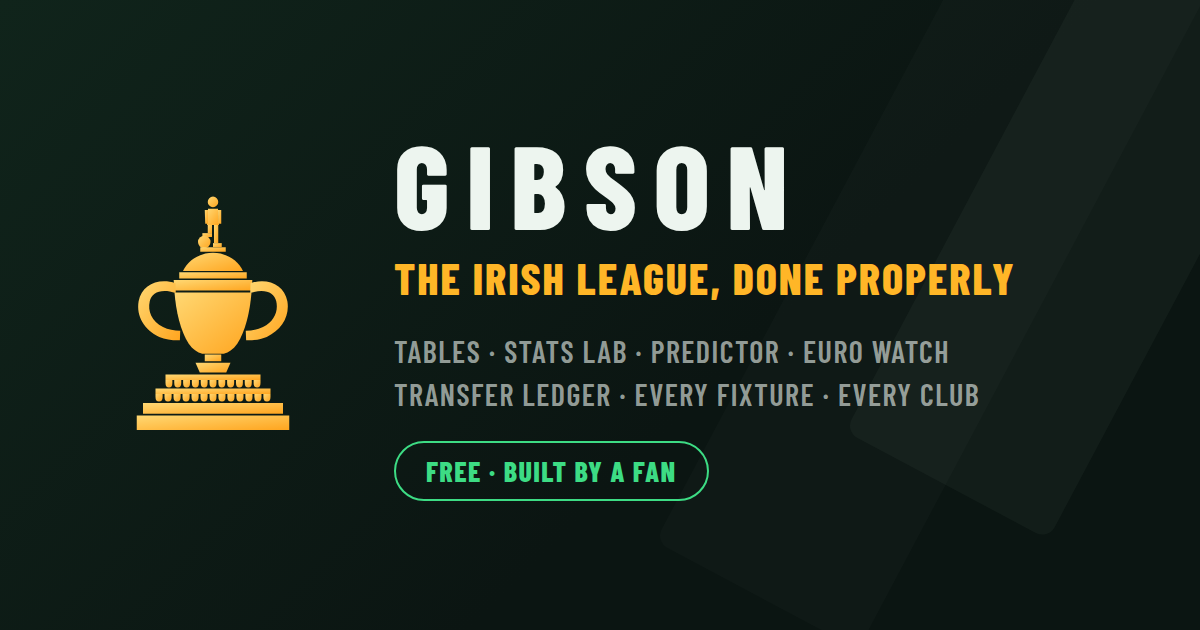
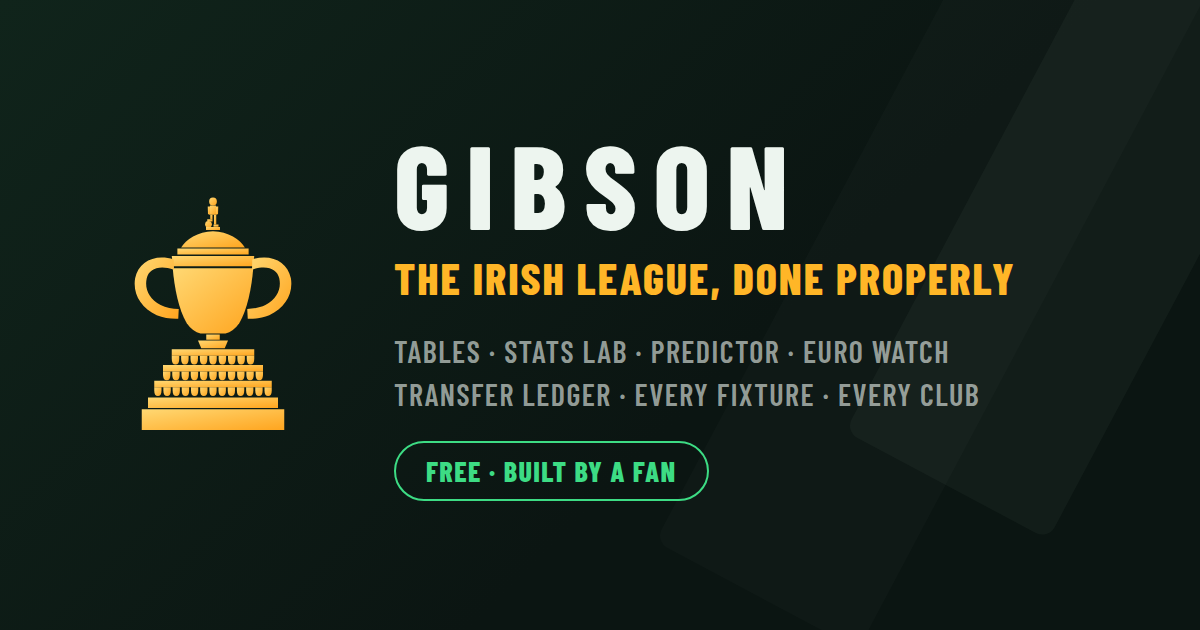
Reproportion the mark against the reference photos
The finial was 24% of the mark's height. On the real trophy it is 11-15% — the
difference between a small silver figure standing on a cup and a mascot riding
one. The drum was undersized to match, at 12% where the photos give it ~20%,
which took the bottom-heavy stance out of the whole thing.

Measured all six sections off the three photographs and refit:

  finial 24% -> 12.5%    lid 11% -> 10.2%     bowl 32% -> 33.9%
  stem    8% ->  6.0%    drum 12% -> 20.5%    base 12% -> 14.2%

The drum now carries three courses of plaques rather than two, which is what the
photos show and what the extra height wanted. The handle curve was not redrawn —
the shape was right, only its span was tied to the old bowl — so it is refitted
onto the new one and re-mirrored.

CUP_SHARES records what was measured, as ranges rather than fixed figures: the
photos are hand-measured off three different angles, and pretending to more
precision than that would be its own kind of wrong.

Checks:
- every section keeps its measured share of the height. This is the one that
  would have saved a round — the oversized finial was a number the whole time,
  not a matter of taste, and nobody was checking it
- the bowl stays the tallest section, which is what makes it read as a cup
  rather than a statue on a plinth
- the plaque courses widen all the way down, not just for the first two
- the handle-attachment check now derives the bowl's edges from the bowl instead
[…]

Changed region(s): [[0.0925, 0.3016, 0.2467, 0.6937]]

diff --git a/scripts/promo/kit.js b/scripts/promo/kit.js
@@ -87,7 +87,7 @@ function shield(club, cx, cy, h) {
 // a plain <script>, so it cannot import src/lib/cup.js the way LogoMark and the OG card
 // do. It carries a copy instead, and verify.js proves the copy still matches the source.
 // To update: change src/lib/cup.js, then run `node scripts/sync-cup.mjs`.
-const CUP_D=["M95.8 9.5 A4.2 4.2 0 1 0 104.2 9.5 A4.2 4.2 0 1 0 95.8 9.5 Z","M96 15 L104 15 L104.8 28 L95.2 28 Z","M93.4 16 L96 16 L96 27 L93.8 27 Z","M104 16 L106.6 16 L106.6 27 L104.2 27 Z","M95.8 28 L99.2 28 L99.2 34.5 L95.8 34.5 Z","M91.5 34.5 L99.2 34.5 L99.2 37.6 L91.5 37.6 Z","M88 41.6 A5 5 0 1 0 98 41.6 A5 5 0 1 0 88 41.6 Z","M100.8 28 L104.2 28 L104.2 42.5 L100.8 42.5 Z","M100 42.5 L107 42.5 L107 45.6 L100 45.6 Z","M89.8 45.8 L110.2 45.8 L110.2 49.4 L89.8 49.4 Z","M100 50.2 C89 50.2 79.5 56.8 76 64.8 L124 64.8 C120.5 56.8 111 50.2 100 50.2 Z","M73 65.8 L127 65.8 L127 70.8 L73 70.8 Z","M68.5 72 L131.5 72 L130.6 80.4 L69.4 80.4 Z","M69.2 82 L130.8 82 C129.6 97 126 113 119.4 123 C116.4 127.4 112.6 130 108.6 131 L91.4 131 C87.4 130 83.6 127.4 80.6 123 C74 113 70.4 97 69.2 82 Z","M70 74.5 C56 70 43 76 40.5 89 C38.5 101 45 112 57 117.5 C62 119.6 68 120.4 73.5 120.2 L73.8 112.6 C69 112.6 64 111.6 60 109.6 C51 105 47.6 97 49.4 89 C51 82 58.5 78.4 70.2 82.4 Z","M130 74.5 C144 70 157 76 159.5 89 C161.5 101 155 112 143 117.5 C138 119.6 132 120.4 126.5 120.2 L126.2 112.6 C131 112.6 136 111.6 140 109.6 C149 105 152.4 97 150.6 89 C149 82 141.5 78.4 129.8 82.4 Z","M93.4 131.6 L106.6 131.6 L106.6 137 L93.4 137 Z","M86 138.2 L114 138.2 L110.6 146 L89.4 146 Z","M62 147.6 L138 147.6 L138 152.0 L62 152.0 Z","M62.0 152.0 L67.5 152.0 L67.5 154.3 Q67.5 158.0 64.8 158.0 Q62.0 158.0 62.0 154.3 Z","M69.0 152.0 L74.6 152.0 L74.6 154.3 Q74.6 158.0 71.8 158.0 Q69.0 158.0 69.0 154.3 Z","M76.1 152.0 L81.6 152.0 L81.6 154.3 Q81.6 158.0 78.9 158.0 Q76.1 158.0 76.1 154.3 Z","M83.1 152.0 L88.7 152.0 L88.7 154.3 Q88.7 158.0 85.9 158.0 Q83.1 158.0 83.1 154.3 Z","M90.2 152.0 L95.7 152.0 L95.7 154.3 Q95.7 158.0 93.0 158.0 Q90.2 158.0 90.2 154.3 Z","M97.2 152.0 L102.8 152.0 L102.8 154.3 Q102.8 158.0 100.0 158.0 Q97.2 158.0 97.2 154.3 Z","M104.3 152.0 L109.8 152.0 L109.8 154.3 Q109.8 158.0 107.0 158.0 Q104.3 158.0 104.3 154.3 Z","M111.3 152.0 L116.9 152.0 L116.9 154.3 Q116.9 158.0 114.1 158.0 Q111.3 158.0 111.3 154.3 Z","M118.4 152.0 L123.9 152.0 L123.9 154.3 Q123.9 158.0 121.1 158.0 Q118.4 158.0 118.4 154.3 Z","M125.4 152.0 L131.0 152.0 L131.0 154.3 Q131.0 158.0 128.2 158.0 Q125.4 158.0 125.4 154.3 Z","M132.5 152.0 L138.0 152.0 L138.0 154.3 Q138.0 158.0 135.2 158.0 Q132.5 158.0 132.5 154.3 Z","M54 158.8 L146 158.8 L146 163.2 L54 163.2 Z","M54.0 163.2 L59.7 163.2 L59.7 165.5 Q59.7 169.2 56.8 169.2 Q54.0 169.2 54.0 165.5 Z","M61.2 163.2 L66.9 163.2 L66.9 165.5 Q66.9 169.2 64.0 169.2 Q61.2 169.2 61.2 165.5 Z","M68.4 163.2 L74.1 163.2 L74.1 165.5 Q74.1 169.2 71.2 169.2 Q68.4 169.2 68.4 165.5 Z","M75.6 163.2 L81.3 163.2 L81.3 165.5 Q81.3 169.2 78.4 169.2 Q75.6 169.2 75.6 165.5 Z","M82.8 163.2 L88.5 163.2 L88.5 165.5 Q88.5 169.2 85.6 169.2 Q82.8 169.2 82.8 165.5 Z","M90.0 163.2 L95.7 163.2 L95.7 165.5 Q95.7 169.2 92.8 169.2 Q90.0 169.2 90.0 165.5 Z","M97.2 163.2 L102.8 163.2 L102.8 165.5 Q102.8 169.2 100.0 169.2 Q97.2 169.2 97.2 165.5 Z","M104.3 163.2 L110.0 163.2 L110.0 165.5 Q110.0 169.2 107.2 169.2 Q104.3 169.2 104.3 165.5 Z","M111.5 163.2 L117.2 163.2 L117.2 165.5 Q117.2 169.2 114.4 169.2 Q111.5 169.2 111.5 165.5 Z","M118.7 163.2 L124.4 163.2 L124.4 165.5 Q124.4 169.2 121.6 169.2 Q118.7 169.2 118.7 165.5 Z","M125.9 163.2 L131.6 163.2 L131.6 165.5 Q131.6 169.2 128.8 169.2 Q125.9 169.2 125.9 165.5 Z","M133.1 163.2 L138.8 163.2 L138.8 165.5 Q138.8 169.2 136.0 169.2 Q133.1 169.2 133.1 165.5 Z","M140.3 163.2 L146.0 163.2 L146.0 165.5 Q146.0 169.2 143.2 169.2 Q140.3 169.2 140.3 165.5 Z","M44 170.4 L156 170.4 L156 179 L44 179 Z","M39 180.4 L161 180.4 L161 192 L39 192 Z"];
+const CUP_D=["M96.9 9.2 A3.1 3.1 0 1 0 103.1 9.2 A3.1 3.1 0 1 0 96.9 9.2 Z","M97.6 12.4 L102.4 12.4 L103 19.8 L97 19.8 Z","M95.8 13.2 L97.6 13.2 L97.6 19.4 L96 19.4 Z","M102.4 13.2 L104.2 13.2 L104 19.4 L102.4 19.4 Z","M97.8 19.8 L99.6 19.8 L99.6 23.4 L97.8 23.4 Z","M95.4 23.4 L99.6 23.4 L99.6 25.2 L95.4 25.2 Z","M93.7 27.4 A2.7 2.7 0 1 0 99.10000000000001 27.4 A2.7 2.7 0 1 0 93.7 27.4 Z","M100.8 19.8 L102.6 19.8 L102.6 27.6 L100.8 27.6 Z","M100.4 27.6 L104.4 27.6 L104.4 29.4 L100.4 29.4 Z","M94.4 29.6 L105.6 29.6 L105.6 32 L94.4 32 Z","M100 33 C88 33 78 40 74.5 46 L125.5 46 C122 40 112 33 100 33 Z","M71.5 46.8 L128.5 46.8 L128.5 51.6 L71.5 51.6 Z","M67 52.8 L133 52.8 L132 61 L68 61 Z","M67.8 62.6 L132.2 62.6 C131 78 127.4 96 121 106.5 C118 111 114 113.8 110 114.8 L90 114.8 C86 113.8 82 111 79 106.5 C72.6 96 69 78 67.8 62.6 Z","M68.6 55.5 C53.9 50.8 40.3 57.1 37.7 70.6 C35.6 83 42.4 94.5 55 100.2 C60.2 102.4 66.5 103.2 72.2 103 L72.6 95.1 C67.5 95.1 62.3 94.1 58.1 92 C48.7 87.2 45.1 78.9 47 70.6 C48.7 63.3 56.5 59.6 68.8 63.7 Z","M131.4 55.5 C146.1 50.8 159.7 57.1 162.3 70.6 C164.4 83 157.6 94.5 145 100.2 C139.8 102.4 133.5 103.2 127.8 103 L127.4 95.1 C132.5 95.1 137.7 94.1 141.9 92 C151.3 87.2 154.9 78.9 153 70.6 C151.3 63.3 143.5 59.6 131.2 63.7 Z","M94.6 115.6 L105.4 115.6 L105.4 119.8 L94.6 119.8 Z","M88 120.4 L112 120.4 L109.4 126.6 L90.6 126.6 Z","M67 127.4 L133 127.4 L133 132.5 L67 132.5 Z","M67.0 132.5 L73.0 132.5 L73.0 135.2 Q73.0 139.6 70.0 139.6 Q67.0 139.6 67.0 135.2 Z","M74.5 132.5 L80.5 132.5 L80.5 135.2 Q80.5 139.6 77.5 139.6 Q74.5 139.6 74.5 135.2 Z","M82.0 132.5 L88.0 132.5 L88.0 135.2 Q88.0 139.6 85.0 139.6 Q82.0 139.6 82.0 135.2 Z","M89.5 132.5 L95.5 132.5 L95.5 135.2 Q95.5 139.6 92.5 139.6 Q89.5 139.6 89.5 135.2 Z","M97.0 132.5 L103.0 132.5 L103.0 135.2 Q103.0 139.6 100.0 139.6 Q97.0 139.6 97.0 135.2 Z","M104.5 132.5 L110.5 132.5 L110.5 135.2 Q110.5 139.6 107.5 139.6 Q104.5 139.6 104.5 135.2 Z","M112.0 132.5 L118.0 132.5 L118.0 135.2 Q118.0 139.6 115.0 139.6 Q112.0 139.6 112.0 135.2 Z","M119.5 132.5 L125.5 132.5 L125.5 135.2 Q125.5 139.6 122.5 139.6 Q119.5 139.6 119.5 135.2 Z","M127.0 132.5 L133.0 132.5 L133.0 135.2 Q133.0 139.6 130.0 139.6 Q127.0 139.6 127.0 135.2 Z","M60 140 L140 140 L140 145.1 L60 145.1 Z","M60.0 145.1 L65.9 145.1 L65.9 147.8 Q65.9 152.2 63.0 152.2 Q60.0 152.2 60.0 147.8 Z","M67.4 145.1 L73.3 145.1 L73.3 147.8 Q73.3 152.2 70.4 152.2 Q67.4 152.2 67.4 147.8 Z","M74.8 145.1 L80.7 145.1 L80.7 147.8 Q80.7 152.2 77.8 152.2 Q74.8 152.2 74.8 147.8 Z","M82.2 145.1 L88.1 145.1 L88.1 147.8 Q88.1 152.2 85.2 152.2 Q82.2 152.2 82.2 147.8 Z","M89.6 145.1 L95.5 145.1 L95.5 147.8 Q95.5 152.2 92.6 152.2 Q89.6 152.2 89.6 147.8 Z","M97.0 145.1 L103.0 145.1 L103.0 147.8 Q103.0 152.2 100.0 152.2 Q97.0 152.2 97.0 147.8 Z","M104.5 145.1 L110.4 145.1 L110.4 147.8 Q110.4 152.2 107.4 152.2 Q104.5 152.2 104.5 147.8 Z","M111.9 145.1 L117.8 145.1 L117.8 147.8 Q117.8 152.2 114.8 152.2 Q111.9 152.2 111.9 147.8 Z","M119.3 145.1 L125.2 145.1 L125.2 147.8 Q125.2 152.2 122.2 152.2 Q119.3 152.2 119.3 147.8 Z","M126.7 145.1 L132.6 145.1 L132.6 147.8 Q132.6 152.2 129.6 152.2 Q126.7 152.2 126.7 147.8 Z","M134.1 145.1 L140.0 145.1 L140.0 147.8 Q140.0 152.2 137.0 152.2 Q134.1 152.2 134.1 147.8 Z","M53 152.6 L147 152.6 L147 157.7 L53 157.7 Z","M53.0 157.7 L58.8 157.7 L58.8 160.4 Q58.8 164.8 55.9 164.8 Q53.0 164.8 53.0 160.4 Z","M60.3 157.7 L66.2 157.7 L66.2 160.4 Q66.2 164.8 63.3 164.8 Q60.3 164.8 60.3 160.4 Z","M67.7 157.7 L73.5 157.7 L73.5 160.4 Q73.5 164.8 70.6 164.8 Q67.7 164.8 67.7 160.4 Z","M75.0 157.7 L80.9 157.7 L80.9 160.4 Q80.9 164.8 78.0 164.8 Q75.0 164.8 75.0 160.4 Z","M82.4 157.7 L88.2 157.7 L88.2 160.4 Q88.2 164.8 85.3 164.8 Q82.4 164.8 82.4 160.4 Z","M89.7 157.7 L95.6 157.7 L95.6 160.4 Q95.6 164.8 92.7 164.8 Q89.7 164.8 89.7 160.4 Z","M97.1 157.7 L102.9 157.7 L102.9 160.4 Q102.9 164.8 100.0 164.8 Q97.1 164.8 97.1 160.4 Z","M104.4 157.7 L110.3 157.7 L110.3 160.4 Q110.3 164.8 107.3 164.8 Q104.4 164.8 104.4 160.4 Z","M111.8 157.7 L117.6 157.7 L117.6 160.4 Q117.6 164.8 114.7 164.8 Q111.8 164.8 111.8 160.4 Z","M119.1 157.7 L125.0 157.7 L125.0 160.4 Q125.0 164.8 122.0 164.8 Q119.1 164.8 119.1 160.4 Z","M126.5 157.7 L132.3 157.7 L132.3 160.4 Q132.3 164.8 129.4 164.8 Q126.5 164.8 126.5 160.4 Z","M133.8 157.7 L139.7 157.7 L139.7 160.4 Q139.7 164.8 136.7 164.8 Q133.8 164.8 133.8 160.4 Z","M141.2 157.7 L147.0 157.7 L147.0 160.4 Q147.0 164.8 144.1 164.8 Q141.2 164.8 141.2 160.4 Z","M48 166 L152 166 L152 174.4 L48 174.4 Z","M43 175.4 L157 175.4 L157 192 L43 192 Z"];
 const CUP = CUP_D.map(d => new Path2D(d));
 function cup(cx, cy, size) {
   const sc = size / 200;

diff --git a/src/lib/cup.js b/src/lib/cup.js
@@ -26,6 +26,11 @@
 // courses of the bowl are the ornament. That is also why it survives being shrunk —
 // at 28px the gaps close and it reads as a solid trophy, at 512px they open into
 // individual shields.
+//
+// PROPORTIONS are measured off the reference photographs as a share of total height,
+// and are the thing most easily got wrong: a first pass drew the finial at 24% of the
+// mark, which turned a small silver figure into a mascot standing on a cup. CUP_SHARES
+// below records what was measured, and verify.js holds the drawing to it.
 
 // Gradient stops for the mark. Defined here rather than at each call site, which is
 // how the previous version ended up with four copies of the same two hex values.
@@ -67,7 +72,7 @@ function shieldCourse(top, height, count, halfWidth) {
 
 // The football under his right boot. Named so the checks can assert where it sits
 // relative to the boot rather than pattern-matching a path string.
-export const BALL = { cx: 93, cy: 41.6, r: 5 };
+export const BALL = { cx: 96.4, cy: 27.4, r: 2.7 };
 
 // Named parts, so verify.js can make claims about the drawing that mean something —
 // "the raised leg is shorter than the standing one", not "this regex still matches".
@@ -76,29 +81,29 @@ export const CUP_PARTS = {
   // Torso and arms are flush, not separated by slivers of background: at the size this
   // ships those gaps are noise, and one silhouette with a step at each shoulder reads
   // as a person where three floating blocks read as a robot.
-  head: circle(100, 9.5, 4.2),
-  torso: "M96 15 L104 15 L104.8 28 L95.2 28 Z",
-  armLeft: "M93.4 16 L96 16 L96 27 L93.8 27 Z",
-  armRight: "M104 16 L106.6 16 L106.6 27 L104.2 27 Z",
-  legRaised: "M95.8 28 L99.2 28 L99.2 34.5 L95.8 34.5 Z",
-  bootRaised: "M91.5 34.5 L99.2 34.5 L99.2 37.6 L91.5 37.6 Z",
+  head: circle(100, 9.2, 3.1),
+  torso: "M97.6 12.4 L102.4 12.4 L103 19.8 L97 19.8 Z",
+  armLeft: "M95.8 13.2 L97.6 13.2 L97.6 19.4 L96 19.4 Z",
+  armRight: "M102.4 13.2 L104.2 13.2 L104 19.4 L102.4 19.4 Z",
+  legRaised: "M97.8 19.8 L99.6 19.8 L99.6 23.4 L97.8 23.4 Z",
+  bootRaised: "M95.4 23.4 L99.6 23.4 L99.6 25.2 L95.4 25.2 Z",
   ball: circle(BALL.cx, BALL.cy, BALL.r),
-  legStanding: "M100.8 28 L104.2 28 L104.2 42.5 L100.8 42.5 Z",
-  bootStanding: "M100 42.5 L107 42.5 L107 45.6 L100 45.6 Z",
+  legStanding: "M100.8 19.8 L102.6 19.8 L102.6 27.6 L100.8 27.6 Z",
+  bootStanding: "M100.4 27.6 L104.4 27.6 L104.4 29.4 L100.4 29.4 Z",
   // Narrower than the ball is wide, so the ball's curve breaks the plinth's edge and
   // reads as a sphere rather than merging into the bar.
-  finialPlinth: "M89.8 45.8 L110.2 45.8 L110.2 49.4 L89.8 49.4 Z",
+  finialPlinth: "M94.4 29.6 L105.6 29.6 L105.6 32 L94.4 32 Z",
 
   // ---- Domed lid ------------------------------------------------------------
-  lidDome: "M100 50.2 C89 50.2 79.5 56.8 76 64.8 L124 64.8 C120.5 56.8 111 50.2 100 50.2 Z",
-  lidRim: "M73 65.8 L127 65.8 L127 70.8 L73 70.8 Z",
+  lidDome: "M100 33 C88 33 78 40 74.5 46 L125.5 46 C122 40 112 33 100 33 Z",
+  lidRim: "M71.5 46.8 L128.5 46.8 L128.5 51.6 L71.5 51.6 Z",
 
   // ---- Bowl -----------------------------------------------------------------
   // Two courses, weighted so the smooth lower mass dominates: that is the plain oval
   // cartouche carrying the inscription, with the chasing above it.
-  bowlChase: "M68.5 72 L131.5 72 L130.6 80.4 L69.4 80.4 Z",
-  bowlBody: "M69.2 82 L130.8 82 C129.6 97 126 113 119.4 123 C116.4 127.4 112.6 130 108.6 131 "
-    + "L91.4 131 C87.4 130 83.6 127.4 80.6 123 C74 113 70.4 97 69.2 82 Z",
+  bowlChase: "M67 52.8 L133 52.8 L132 61 L68 61 Z",
+  bowlBody: "M67.8 62.6 L132.2 62.6 C131 78 127.4 96 121 106.5 C118 111 114 113.8 110 114.8 "
+    + "L90 114.8 C86 113.8 82 111 79 106.5 C72.6 96 69 78 67.8 62.6 Z",
 
   // ---- Handles --------------------------------------------------------------
   // A forged ribbon: it leaves the bowl at the shoulder, loops out and down, and returns
@@ -109,28 +114,31 @@ export const CUP_PARTS = {
   // An earlier draft used true concentric rings. They punched correctly in both SVG and
   // canvas and still looked wrong: perfect ellipses stuck on the sides, nothing like
   // forged metal. The two must stay exact mirrors about x=100; verify.js checks it.
-  handleLeft: "M70 74.5 C56 70 43 76 40.5 89 C38.5 101 45 112 57 117.5 "
-    + "C62 119.6 68 120.4 73.5 120.2 L73.8 112.6 C69 112.6 64 111.6 60 109.6 "
-    + "C51 105 47.6 97 49.4 89 C51 82 58.5 78.4 70.2 82.4 Z",
-  handleRight: "M130 74.5 C144 70 157 76 159.5 89 C161.5 101 155 112 143 117.5 "
-    + "C138 119.6 132 120.4 126.5 120.2 L126.2 112.6 C131 112.6 136 111.6 140 109.6 "
-    + "C149 105 152.4 97 150.6 89 C149 82 141.5 78.4 129.8 82.4 Z",
+  handleLeft: "M68.6 55.5 C53.9 50.8 40.3 57.1 37.7 70.6 C35.6 83 42.4 94.5 55 100.2 "
+  + "C60.2 102.4 66.5 103.2 72.2 103 L72.6 95.1 C67.5 95.1 62.3 94.1 58.1 92 "
+  + "C48.7 87.2 45.1 78.9 47 70.6 C48.7 63.3 56.5 59.6 68.8 63.7 Z",
+  handleRight: "M131.4 55.5 C146.1 50.8 159.7 57.1 162.3 70.6 C164.4 83 157.6 94.5 145 100.2 "
+  + "C139.8 102.4 133.5 103.2 127.8 103 L127.4 95.1 C132.5 95.1 137.7 94.1 141.9 92 "
+  + "C151.3 87.2 154.9 78.9 153 70.6 C151.3 63.3 143.5 59.6 131.2 63.7 Z",
 
   // ---- Stem and knop --------------------------------------------------------
-  stemNeck: "M93.4 131.6 L106.6 131.6 L106.6 137 L93.4 137 Z",
-  stemKnop: "M86 138.2 L114 138.2 L110.6 146 L89.4 146 Z",
+  stemNeck: "M94.6 115.6 L105.4 115.6 L105.4 119.8 L94.6 119.8 Z",
+  stemKnop: "M88 120.4 L112 120.4 L109.4 126.6 L90.6 126.6 Z",
 
   // ---- Engraved band and plinth ---------------------------------------------
-  baseBand: "M44 170.4 L156 170.4 L156 179 L44 179 Z",
-  basePlinth: "M39 180.4 L161 180.4 L161 192 L39 192 Z",
+  baseBand: "M48 166 L152 166 L152 174.4 L48 174.4 Z",
+  basePlinth: "M43 175.4 L157 175.4 L157 192 L43 192 Z",
 };
 
 // The two courses of winners' plaques, stepping outward towards the base.
 export const CUP_DRUM = [
-  ...shieldCourse(147.6, 10.4, 11, 38),
-  ...shieldCourse(158.8, 10.4, 13, 46),
+  ...shieldCourse(127.4, 12.2, 9, 33),
+  ...shieldCourse(140, 12.2, 11, 40),
+  ...shieldCourse(152.6, 12.2, 13, 47),
 ];
 
+// Which parts make up each section of the trophy, so the proportions can be checked
+// rather than eyeballed.
 const P = CUP_PARTS;
 export const CUP_PATHS = [
   P.head, P.torso, P.armLeft, P.armRight,
@@ -142,6 +150,39 @@ export const CUP_PATHS = [
   ...CUP_DRUM,
   P.baseBand, P.basePlinth,
 ];
+
+export const CUP_SECTIONS = {
+  finial: [P.head, P.torso, P.armLeft, P.armRight, P.legRaised, P.bootRaised, P.ball,
+    P.legStanding, P.bootStanding, P.finialPlinth],
+  lid: [P.lidDome, P.lidRim],
+  bowl: [P.bowlChase, P.bowlBody],
+  stem: [P.stemNeck, P.stemKnop],
+  drum: CUP_DRUM,
+  base: [P.baseBand, P.basePlinth],
+};
+
+// Share of total height each section should occupy, measured off the reference photos.
+// Ranges, not exact figures — the photos are hand-measured off three different angles,
+// so these are "what the real trophy looks like", not spurious precision.
+export const CUP_SHARES = {
+  finial: [0.09, 0.17],
+  lid: [0.08, 0.14],
+  bowl: [0.29, 0.37],
+  stem: [0.04, 0.09],
+  drum: [0.17, 0.27],
+  base: [0.10, 0.17],
+};
+
+// The vertical extent of a group of paths, and the mark's total height.
+export function extentY(paths) {
+  const ys = paths.flatMap((d) => pathPoints(d).map(([, y]) => y));
+  return { top: Math.min(...ys), bottom: Math.max(...ys) };
+}
+export function heightShare(section) {
+  const all = extentY(CUP_PATHS);
+  const s = extentY(CUP_SECTIONS[section]);
+  return (s.bottom - s.top) / (all.bottom - all.top);
+}
 
 // Every (x, y) pair in a path, in order — used by the checks to reason about the drawing
 // (is this leg shorter, are these two shapes mirrored) without parsing SVG properly.

diff --git a/scripts/verify.js b/scripts/verify.js
@@ -2356,11 +2356,21 @@ check("the cup's two handles are exact mirrors about the centreline", (() => {
 // being handles and become gold parentheses — and because each is traced as an open
 // ribbon rather than a closed ring, it is the bowl that completes the loop.
 check("each cup handle meets the bowl at both ends", (() => {
-  const bowlLeftEdge = 69.2, bowlSpan = [72, 131];
-  const l = D_CUP.pathPoints(D_CUP.CUP_PARTS.handleLeft);
-  const touching = l.filter(([x, y]) => x >= bowlLeftEdge - 1 && y >= bowlSpan[0] && y <= bowlSpan[1]);
-  // At least one contact point up at the shoulder and one lower down the body.
-  return touching.some(([, y]) => y < 90) && touching.some(([, y]) => y > 105);
+  // Derived from the bowl, not hardcoded: the first version of this check carried the
+  // old geometry's coordinates and started failing the moment the cup was reproportioned,
+  // which is a check measuring the wrong thing rather than a drawing that got worse.
+  const bowl = [D_CUP.CUP_PARTS.bowlChase, D_CUP.CUP_PARTS.bowlBody];
+  const bowlLeft = Math.min(...bowl.flatMap((d) => D_CUP.pathPoints(d).map(([x]) => x)));
+  const { top, bottom } = D_CUP.extentY(bowl);
+  const span = bottom - top;
+  return [D_CUP.CUP_PARTS.handleLeft, D_CUP.CUP_PARTS.handleRight].every((h, i) => {
+    const pts = D_CUP.pathPoints(h);
+    // Mirror the right handle so one rule covers both.
+    const touching = pts.map(([x, y]) => [i === 0 ? x : 200 - x, y])
+      .filter(([x, y]) => x >= bowlLeft - 1 && y >= top && y <= bottom);
+    return touching.some(([, y]) => y < top + span * 0.35)     // joins at the shoulder
+      && touching.some(([, y]) => y > top + span * 0.6);       // and again down the body
+  });
 })());
 
 // The figure stands with a ball under his right boot — owner's correction, 13 Aug 2026,
@@ -2384,13 +2394,35 @@ check("the football sits under the raised boot, resting on the plinth", (() => {
   return cx - r < plinthLeft;                               // and breaks its edge, so it reads round
 })());
 
-// The plaque courses step outward going down. Reversed, the base tapers to a point and
-// the trophy looks like a spinning top — which is exactly what the first draft did.
+// The plaque courses step outward going down, all the way. Reversed or flattened, the
+// base stops being a drum and the trophy looks like a spinning top.
 check("the cup's plaque courses widen towards the base", (() => {
   const widthOf = (d) => { const xs = D_CUP.pathPoints(d).map(([x]) => x); return Math.max(...xs) - Math.min(...xs); };
-  const bands = D_CUP.CUP_DRUM.filter((d) => widthOf(d) > 40);   // the two solid drum bands
-  if (bands.length !== 2) return false;
-  return widthOf(bands[1]) > widthOf(bands[0]);
+  const bands = D_CUP.CUP_DRUM.filter((d) => widthOf(d) > 40);   // the solid drum bands
+  if (bands.length < 2) return false;
+  return bands.every((d, i) => i === 0 || widthOf(d) > widthOf(bands[i - 1]));
+})());
+
+// Proportions, measured off the owner's reference photographs. This is the check that
+// would have saved a whole round: the first drawing gave the finial 24% of the mark's
+// height, which reads as a mascot standing on a cup rather than the small silver figure
+// the trophy actually carries. Every section is held to the share it has in the photos.
+check("every section of the cup keeps its measured share of the height", (() => {
+  const names = Object.keys(D_CUP.CUP_SHARES);
+  if (names.length === 0) return false;
+  return names.every((n) => {
+    const share = D_CUP.heightShare(n);
+    const [lo, hi] = D_CUP.CUP_SHARES[n];
+    return share >= lo && share <= hi;
+  });
+})());
+
+// ...and the bowl stays the largest single element, which is what makes it read as a cup
+// rather than as a statue on a plinth.
+check("the bowl is the tallest section of the cup", (() => {
+  const shares = Object.keys(D_CUP.CUP_SHARES).map((n) => [n, D_CUP.heightShare(n)]);
+  const tallest = shares.reduce((a, b) => (b[1] > a[1] ? b : a));
+  return tallest[0] === "bowl";
 })());
 
 // The icons, favicon and static share card are committed PNGs rendered from this same
